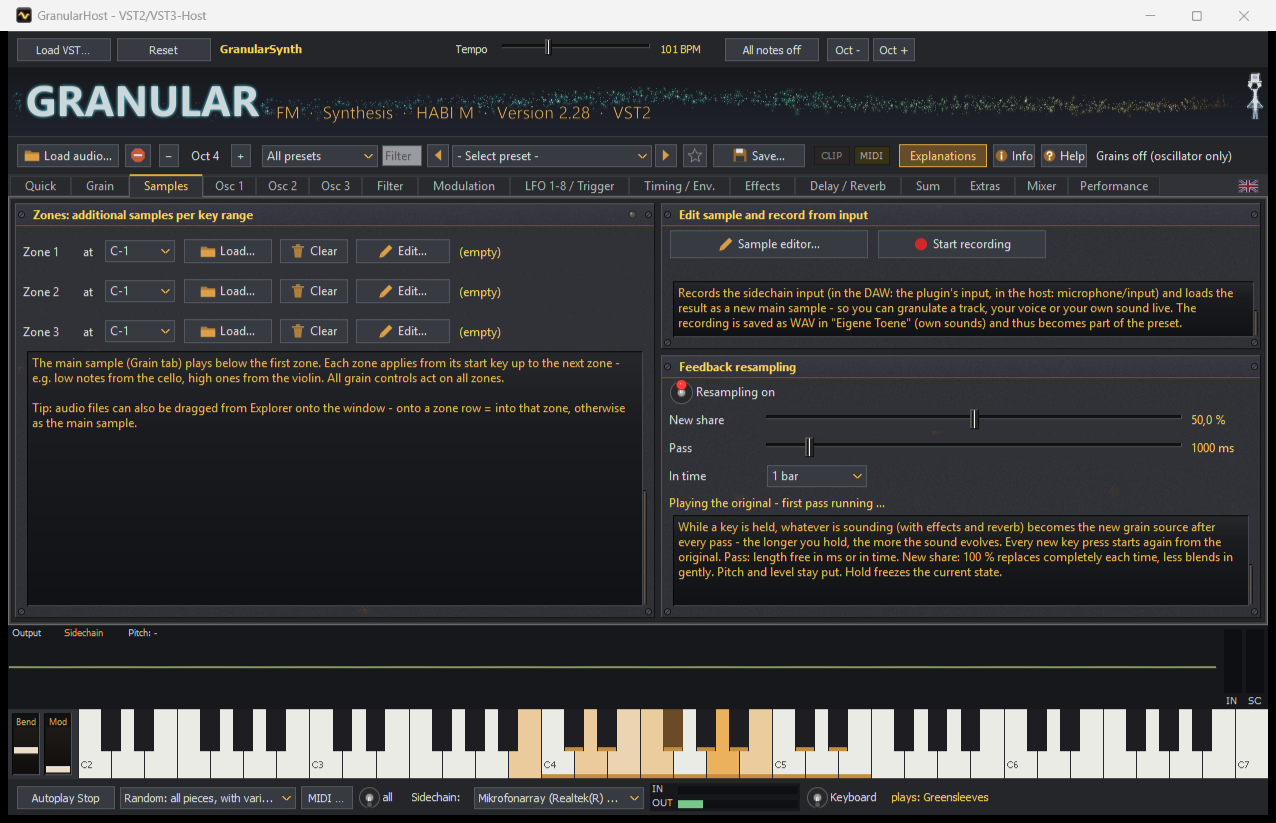
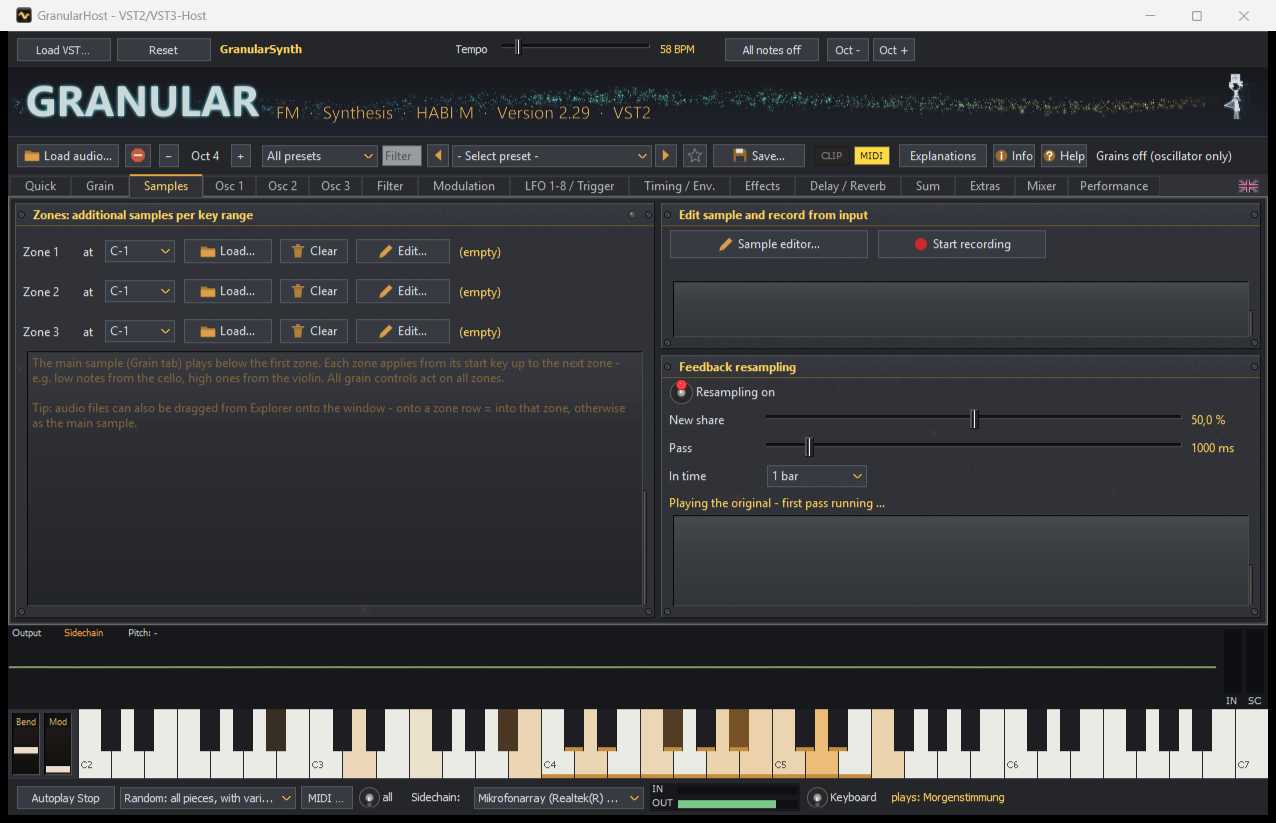
Version 2.29
Explanation displays off by default, even margins everywhere (also with Windows scaling), Harmony/Hold as separate sections

diff --git a/Tools/Hilfe_Reglertabelle.py b/Tools/Hilfe_Reglertabelle.py
@@ -33,7 +33,7 @@ TABS = [
  ("Speichern…", "aktuelle Einstellung als Preset speichern; eigene T\u00f6ne werden nach \u201eEigene Töne\u201c kopiert. Dateityp \u201emit eingebetteten Samples\u201c: alle benutzten Samples (Haupt-Sample, Klang B, Zonen) kommen mit in die Preset-Datei - eine Datei zum Weitergeben. Auf einem anderen Rechner werden fehlende Samples beim Laden nach \u201eEigene Töne\u201c ausgepackt. Die Wahl wird gemerkt; ältere Versionen laden solche Presets auch (ohne Auspacken). Nach dem Speichern steht der neue Name in der Presetliste."),
  ("CLIP / MIDI", "leuchten bei \u00dcbersteuerung bzw. bei jedem empfangenen MIDI-Ereignis."),
  ("Info", "Klartext, was beim Tastendruck passiert, dazu das Trigger-Protokoll (Noten, R\u00e4der, Ereignisse, Einmal-LFOs) live."),
- ("Erklärungen", "schaltet die Erklär-Displays in den Reitern ein (Standard) oder aus. Aus: Maus über einen Bereich zeigt dessen Text leicht, ein Klick ins Display hält ihn fest."),
+ ("Erklärungen", "schaltet die Erklär-Displays in den Reitern ein oder aus (Standard). Aus: Maus über einen Bereich zeigt dessen Text leicht, ein Klick ins Display hält ihn fest."),
  ("Hilfe", "dieses Fenster."),
  ("Statuszeile", "das aktive Sample (bei Morph: A und B mit ihrem Anteil) und kurze Meldungen. Klingende Stimmen und aktive Grains stehen im Reiter Leistung."),
  ("Autoplay, Haken \u201ealle\u201c", "nur im Test-Host: spielt St\u00fccke ab; die Liste zeigt die zum Preset passenden, mit \u201ealle\u201c jedes St\u00fcck (z.B. eine Fl\u00e4che mit flotter Musik)."),

diff --git a/CHANGELOG.md b/CHANGELOG.md
@@ -6,10 +6,21 @@ Unter **Hinweis** steht, was sich für vorhandene Presets, Projekte oder die Ins
 
 ---
 
+## Version 2.29 – 13.11.2026
+
+### Geändert
+- **Erklär-Displays:** Standard wieder „aus“ (matte Displays, Text blendet beim Darüberfahren ein). Auf „Modulation“ bilden beide Displays einen Block, auf „Schnell“ beginnt das Display bündig mit „Variieren“.
+- **Extras:** „Harmonie“ und „Halten“ sind zwei eigene Bereiche untereinander.
+
+### Behoben
+- Gleiche Abstände links und rechts bei allen Displays (Filter, LFOs, Osz), auch nach dem Skalieren bzw. bei Windows-Skalierung (Reiter Leistung).
+
+---
+
 ## Version 2.28 – 13.11.2026
 
 ### Neu
-- **Erklärungen im Display** (Kopfleiste „Erklärungen“): Jeder Erklärtext steht in einem eingelassenen Bernstein-Display, das bei lautem Ausgang mit den anderen Anzeigen abdunkelt. Erklärungen an (Standard): alle Displays leuchten. Aus: die Displays sind matt; mit der Maus über einem Bereich blendet sein Text weich ein und dimmt mit der Zeit langsam ab, ein Klick ins Display hält ihn hell (nochmal klicken = abdimmen, beim Verlassen aus). Die Wahl wird gemerkt. Dazu: Displays sauber eingepasst (gleiche Ränder, in Reihen ausgerichtet, Flachbandkabel rechts), mehr Luft unter den Bereichstiteln.
+- **Erklärungen im Display** (Kopfleiste „Erklärungen“): Jeder Erklärtext steht in einem eingelassenen Bernstein-Display, das bei lautem Ausgang mit den anderen Anzeigen abdunkelt. Erklärungen aus (Standard): die Displays sind matt; mit der Maus über einem Bereich blendet sein Text weich ein und dimmt mit der Zeit langsam ab, ein Klick ins Display hält ihn hell (nochmal klicken = abdimmen, beim Verlassen aus). Erklärungen an: alle Displays leuchten. Die Wahl wird gemerkt. Dazu: Displays sauber eingepasst (gleiche Ränder, in Reihen ausgerichtet, Flachbandkabel rechts), mehr Luft unter den Bereichstiteln.
 - **Wellenanzeige im Osz-Reiter:** zeigt eine Periode der Welle, wie der Oszillator sie gerade spielt (Welle, Zeichnung oder Wavetable-Position, dazu Sync und FM).
 - **Regler schneller bedienen:** Doppelklick setzt den Standardwert. Strg + Ziehen stellt zehnmal feiner ein, Strg + Mausrad in kleinsten Schritten. Die Wertanzeige wird beim Darüberfahren unterstrichen - ein Klick darauf öffnet das Eingabefeld.
 
